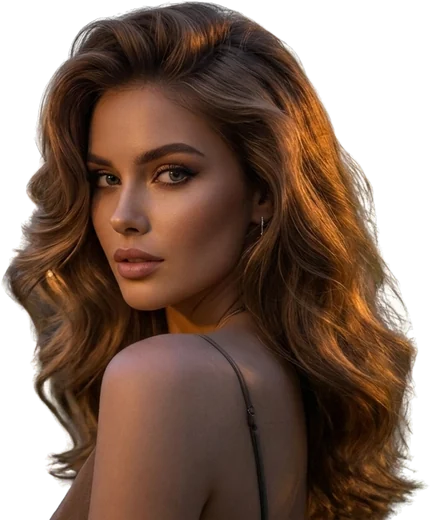
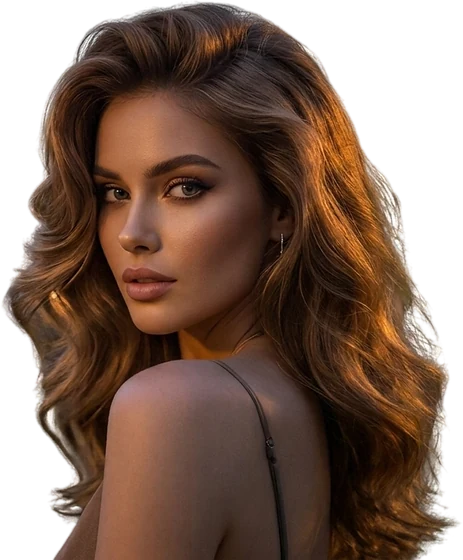
Портрет: снята кайма из исходника, кадр крупнее
Белый ободок вокруг волос был уже в исходном снимке — его вырезали на
белое до нас. По альфа-маске он проходил как объект, поэтому прошлая
деконтаминация кромки его не касалась.

Снимаю полосой по расстоянию от края: в четырёх пикселях от силуэта
цвет заменяется цветом ядра, вытянутым наружу push-pull-инпейнтингом,
сама кромка становится полупрозрачной. Средняя яркость кромки 208→161,
доля пикселей ярче 210 — 61%→7%.

Кадр увеличен с 560 до 820 px по высоте (родная высота снимка, выше
пошло бы мыло). Добавлены тёплый свет за спиной и мягкая тень под
кадром, иначе фигура висела на поле, а не стояла в нём.

Потолок кегля заголовка снижен с 13rem до 11rem: на экранах от 1800 px
строка «Почерк,» занимала 1184 px и доходила до портрета.

Claude-Session: https://claude.ai/code/session_018SN7TA6kw3BepFEu2UN1VE

diff --git a/css/main.css b/css/main.css
@@ -150,7 +150,7 @@
   --f-mono:    "JetBrains Mono", ui-monospace, "SF Mono", Menlo, monospace;
 
   /* Шкала (density 3/10 — просторная) */
-  --t-hero:    min(13.5vw, 13rem, 18.5svh);
+  --t-hero:    min(13.5vw, 11rem, 18.5svh);
   --t-display: clamp(2.8rem, 9vw, 9rem);
   --t-h2:      clamp(2.2rem, 6vw, 5.2rem);
   --t-h3:      clamp(1.35rem, 2.4vw, 2rem);
@@ -526,20 +526,25 @@ body.is-locked .hdr.is-solid{
    Маска снизу растворяет кадр в поле секции, чтобы не было среза по краю. */
 .hero__model{
   position:absolute; z-index:1; right:0; bottom:0;
-  height:min(62%, 560px); pointer-events:none;
+  height:min(78%, 820px);      /* 820 — родная высота кадра, выше пойдёт мыло */
+  max-width:46%; pointer-events:none;
   display:flex; align-items:flex-end; justify-content:flex-end;
   padding-right:var(--gut);
 }
+/* Тёплый свет за спиной и мягкая тень под кадром: иначе фигура
+   висит на поле, а не стоит в нём. */
 .hero__model::before{
-  content:""; position:absolute; inset:-14% -26% -8% -20%; z-index:-1;
-  background:radial-gradient(54% 48% at 50% 40%, rgba(197,141,155,.17) 0%, transparent 70%);
+  content:""; position:absolute; inset:-12% -24% -6% -18%; z-index:-1;
+  background:
+    radial-gradient(48% 42% at 52% 34%, rgba(197,141,155,.20) 0%, transparent 72%),
+    radial-gradient(42% 16% at 52% 99%, rgba(20,14,11,.55) 0%, transparent 72%);
 }
 .hero__model img{
   height:100%; width:auto; max-width:none;
-  object-fit:contain; object-position:bottom;
-  filter:contrast(1.05) saturate(.9) brightness(.96);
-  -webkit-mask-image:linear-gradient(to bottom, #000 68%, transparent 98%);
-  mask-image:linear-gradient(to bottom, #000 68%, transparent 98%);
+  max-width:100%; object-fit:contain; object-position:bottom right;
+  filter:contrast(1.04) saturate(.94) brightness(.99);
+  -webkit-mask-image:linear-gradient(to bottom, #000 74%, transparent 99%);
+  mask-image:linear-gradient(to bottom, #000 74%, transparent 99%);
 }
 
 .hero__type{
@@ -1404,7 +1409,7 @@ body.is-locked .hdr.is-solid{
   .hero__type{ gap:var(--s-2); }
   .hero__rail{ padding-top:var(--s-2); }
   .hero__scroll{ height:40px; }
-  .hero__model{ height:min(56%, 440px); }
+  .hero__model{ height:min(66%, 520px); }
 }
 @media (min-width:768px) and (max-height:760px){
   .hero__h1{ font-size:max(2.6rem, min(11vw, 16svh)); }
@@ -1424,7 +1429,7 @@ body.is-locked .hdr.is-solid{
     justify-content:center; align-items:flex-start;
   }
   .hero__model img{
-    height:min(31svh, 320px);
+    height:min(29svh, 310px);
     -webkit-mask-image:linear-gradient(to bottom, #000 74%, transparent 100%);
     mask-image:linear-gradient(to bottom, #000 74%, transparent 100%);
   }
@@ -1437,7 +1442,7 @@ body.is-locked .hdr.is-solid{
 }
 
 @media (max-width:767px){
-  .hero__model img{ height:min(27svh, 260px); }
+  .hero__model img{ height:min(28svh, 275px); }
   .hero__rail{ display:none; }   /* места нет: герой должен уложиться в экран */
 }
 

diff --git a/design-system/elane/MASTER.md b/design-system/elane/MASTER.md
@@ -118,10 +118,15 @@
 сетку, нажатая кнопка к моменту всплытия события уже вне DOM, и такая проверка
 принимала её за клик по фону — окно закрывалось прямо при выборе даты.
 
-**Портрет в герое.** Вырезан из снимка на белом фоне: альфа строится по
-«белизне» с заливкой от краёв (белые блики внутри объекта остаются), кромка
-проходит деконтаминацию `F = (C − (1−a)·B) / a`, иначе на шоколадном поле
-появляется белая кайма. Снизу кадр гасится маской и растворяется в поле секции.
+**Портрет в герое.** Вырезан из снимка на белом фоне. Альфа строится по
+«белизне» с заливкой от краёв, чтобы светлые блики внутри кадра остались
+непрозрачными. Главная сложность — светлый ободок, который был уже в исходнике
+(снимок кто-то вырезал на белое до нас): по альфе он проходил как объект,
+поэтому деконтаминация его не трогала. Он снимается полосой по расстоянию от
+края: в четырёх пикселях от силуэта цвет заменяется цветом ядра, вытянутым
+наружу push-pull-инпейнтингом, а сама кромка делается полупрозрачной.
+Контроль — средняя яркость кромки (было 208, стало 161) и доля пикселей ярче
+210 (было 61%, стало 7%). Снизу кадр гасится маской и растворяется в поле.
 
 От 1024 px портрет стоит справа абсолютом, текст занимает левую половину,
 лид и кнопка прижаты влево — правая половина отдана кадру. Ниже 1024 px
@@ -130,8 +135,9 @@
 требуемых 4.5. Накладывать текст на портрет на узких экранах нельзя.
 
 Размер заголовка героя завязан и на ширину, и на высоту экрана
-(`min(13.5vw, 13rem, 18.5svh)`): на ноутбуках 900 px и ниже герой перерастал
-вьюпорт, и подводка уезжала под фиксированную шапку.
+(`min(13.5vw, 11rem, 18.5svh)`): на ноутбуках 900 px и ниже герой перерастал
+вьюпорт и подводка уезжала под шапку, а на экранах от 1800 px строка «Почерк,»
+дорастала до портрета — при 208 px кегля она занимает 1184 px.
 
 **Запись от мастера.** Стрелка на карточке открывает окно с подставленным
 мастером и услугой его направления, сразу на шаге даты: первые два шага
